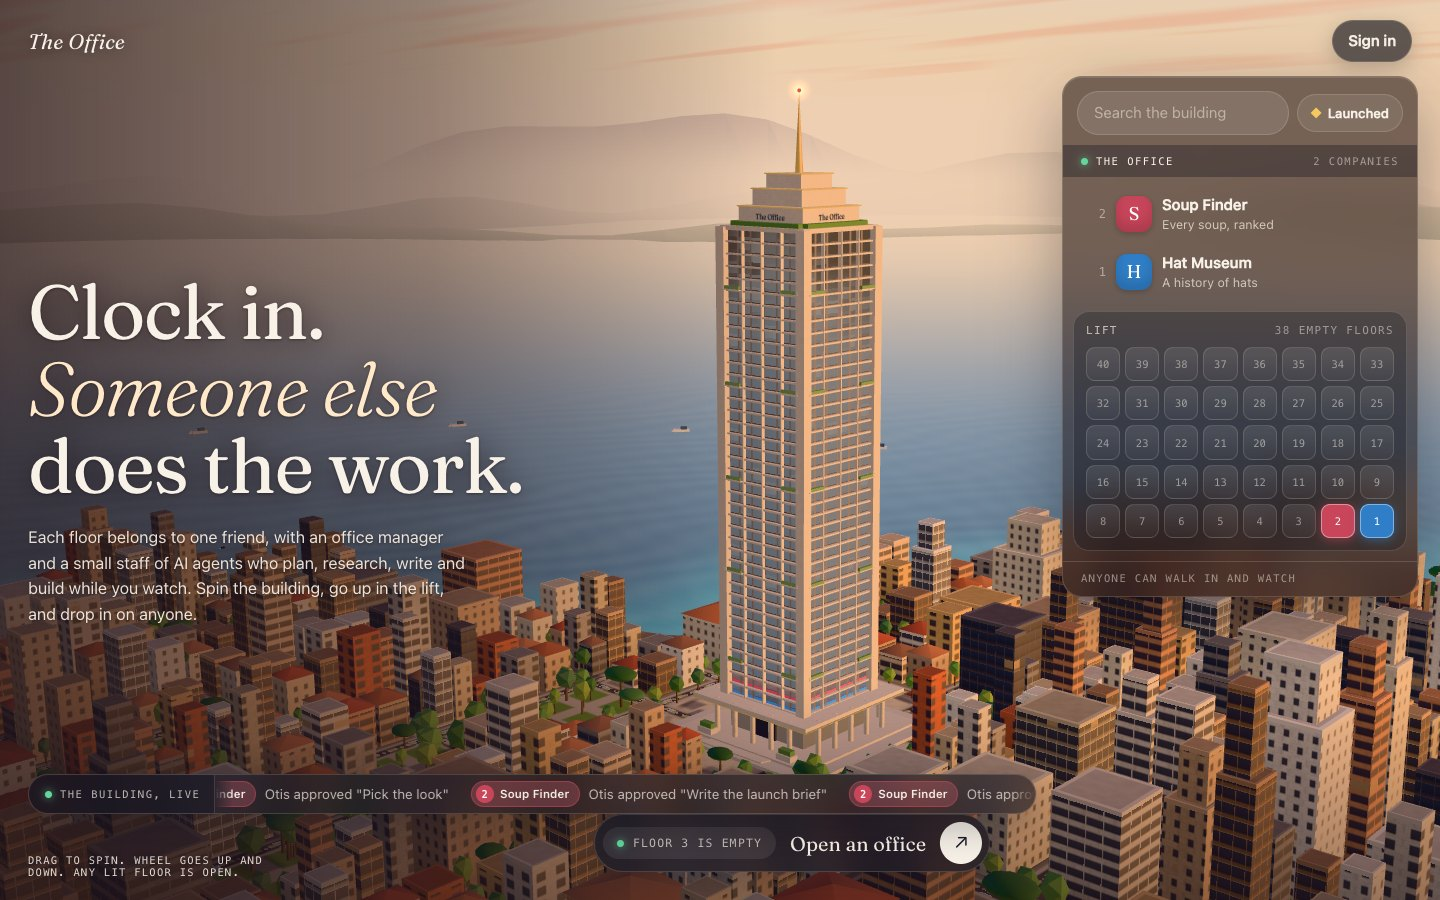
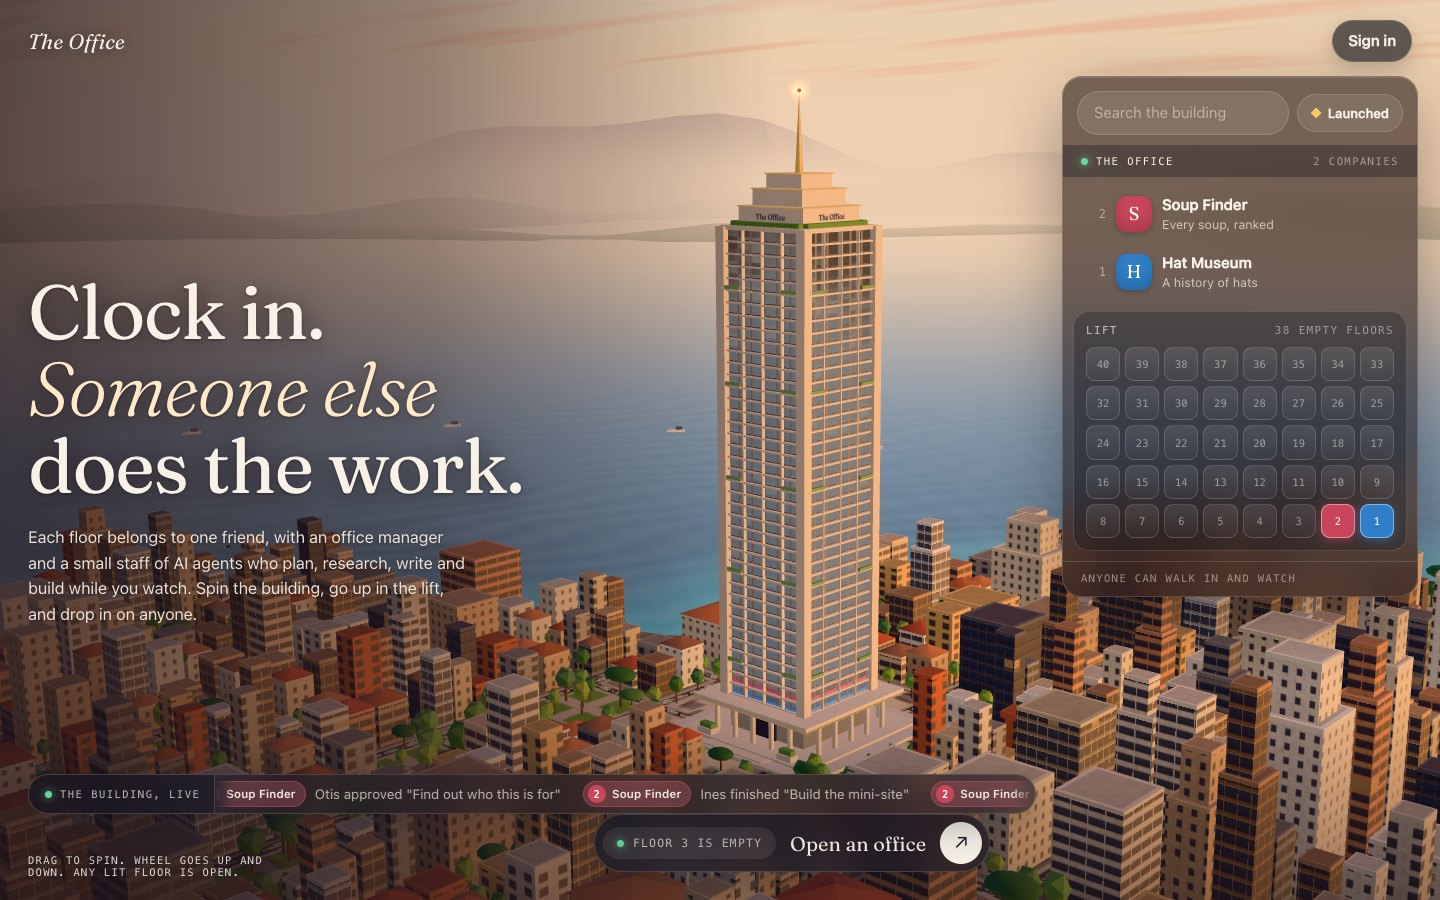
Sign-in by name uses exactly the server's slug rules, with a test; loading comparison shots

diff --git a/public/js/claim.js b/public/js/claim.js
@@ -1,7 +1,7 @@
 // Dialogs for getting a floor: entering a code, setting up the company and boss, and signing back in with a recovery code.
 import { h, api, modal, refreshMe, BASE, session, ApiError } from './dom.js';
 import { characterBuilder, swatches } from './builder.js';
-import { DEFAULT_LOOK, DEFAULT_COLORS } from './looks.js';
+import { DEFAULT_LOOK, DEFAULT_COLORS, slugFrom } from './looks.js';
 
 const BRAND = ['#d9774a', '#c8455a', '#7a4bb5', '#2f7ec7', '#23937f', '#6f8f3a', '#e0a526', '#3b3f4f'];
 const ACCENT = ['#f4c95d', '#ff9f7a', '#8fd3c7', '#a9c4ff', '#f2a7c3', '#e8e0d0'];
@@ -80,13 +80,6 @@ export function recoveryBox(code) {
   const copy = h('button.btn.ghost', { type: 'button', onclick: async () => { try { await navigator.clipboard.writeText(code); copy.textContent = 'Copied'; } catch { copy.textContent = 'Select and copy it'; } } }, 'Copy');
   return h('div.recovery', {}, h('code', { 'data-recovery': true }, code), copy);
 }
-
-/** What people actually type for "floor address": the name as they remember it, the slug, or the whole link. */
-export const slugFrom = (text) => {
-  const t = String(text || '').trim();
-  const fromLink = t.match(/\/floor\/([a-z0-9-]+)/i);
-  return (fromLink ? fromLink[1] : t).toLowerCase().normalize('NFKD').replace(/[\u0300-\u036f]/g, '').replace(/[^a-z0-9]+/g, '-').replace(/^-+|-+$/g, '');
-};
 
 export function openLogin(slugHint = '') {
   let back = null;

diff --git a/test/statics.test.js b/test/statics.test.js
@@ -8,6 +8,8 @@ import { boot } from './helpers.js';
 import { buildStatics, pickEncoding, wantBrotli } from '../server/statics.js';
 import { ROOT } from '../server/config.js';
 import { layoutLabels } from '../public/js/labels.js';
+import { slugFrom } from '../public/js/looks.js';
+import { slugify } from '../server/workspace.js';
 
 const PUB = join(ROOT, 'public');
 const statics = buildStatics(PUB, '/theoffice');
@@ -146,5 +148,18 @@ describe('labels in a huddle', () => {
     const items = [person('a', 50, 96, 1, 400)];
     const solved = layoutLabels(items, { width: 100 });
     assert.equal(solved.get('a').bubble, false);
+  });
+});
+
+describe('signing in by name', () => {
+  test('a company name typed the way people remember it reaches the same floor as the server\'s slug', () => {
+    for (const name of ['Night Bakery', 'night bakery ', 'Cafés & Co.', 'Tiny   Teacups!', 'A very long company name that goes well past the forty character limit', 'Ünïcode Ünlimited']) {
+      assert.equal(slugFrom(name), slugify(name), name);
+    }
+  });
+  test('the whole link works, and so does the bare slug', () => {
+    assert.equal(slugFrom('https://iscolinfree.com/theoffice/floor/night-bakery'), 'night-bakery');
+    assert.equal(slugFrom('https://iscolinfree.com/theoffice/floor/night-bakery/?x=1'), 'night-bakery');
+    assert.equal(slugFrom('night-bakery'), 'night-bakery');
   });
 });

diff --git a/public/js/looks.js b/public/js/looks.js
@@ -26,3 +26,10 @@ export function seededLook(seed) {
     hat: seed % 5 === 0 ? pick(HAT.slice(1), 61) : 'none', glasses: seed % 4 === 1 ? 'round' : 'none',
   };
 }
+
+/** What people actually type for their floor when signing in: the name as they remember it, the slug, or the whole link. The same rules as the server's slugify. */
+export const slugFrom = (text) => {
+  const t = String(text || '').trim();
+  const fromLink = t.match(/\/floor\/([a-z0-9-]+)/i);
+  return (fromLink ? fromLink[1] : t).toLowerCase().normalize('NFKD').replace(/[^a-z0-9]+/g, '-').replace(/^-+|-+$/g, '').slice(0, 40).replace(/-+$/, '');
+};
